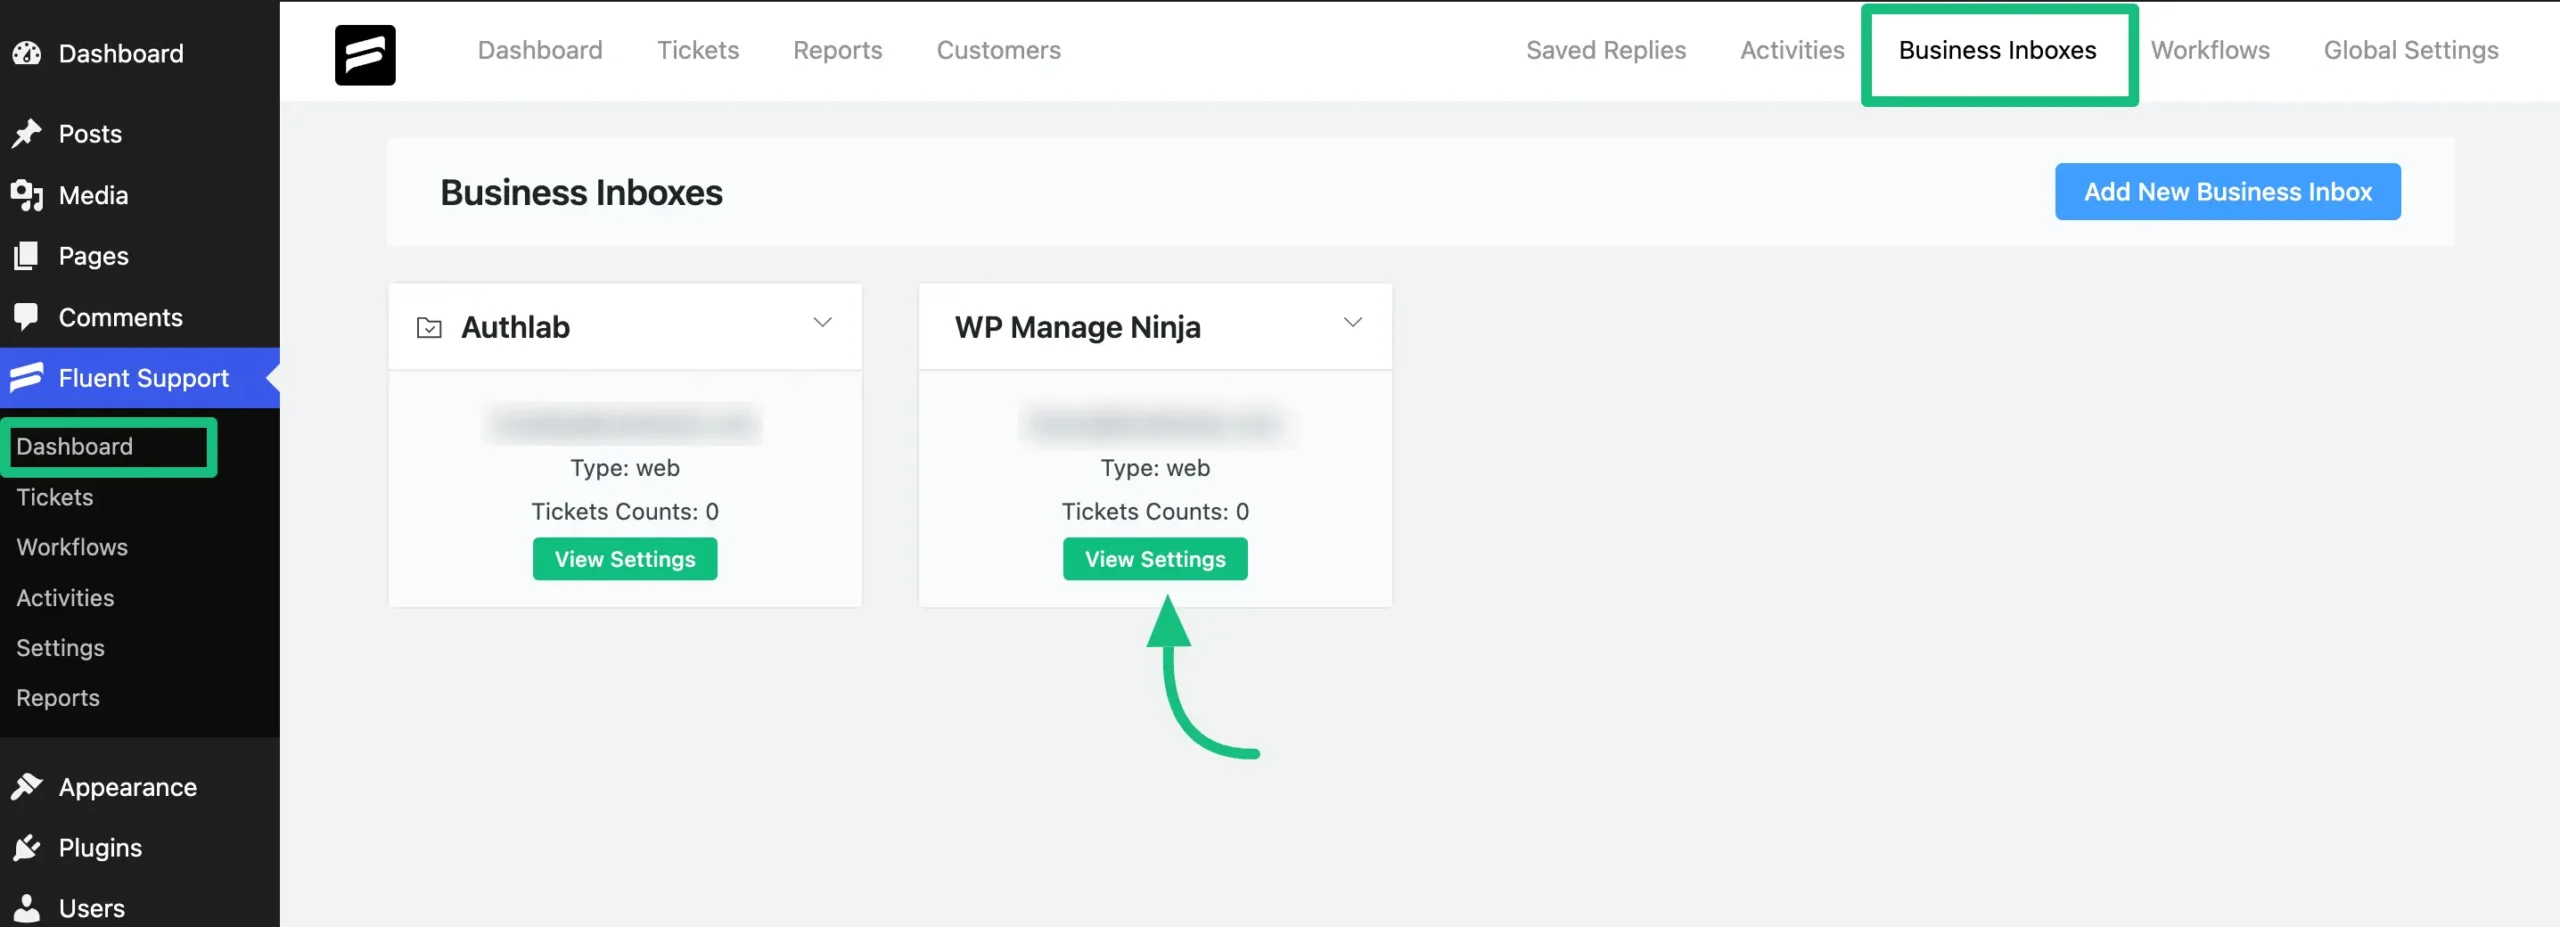
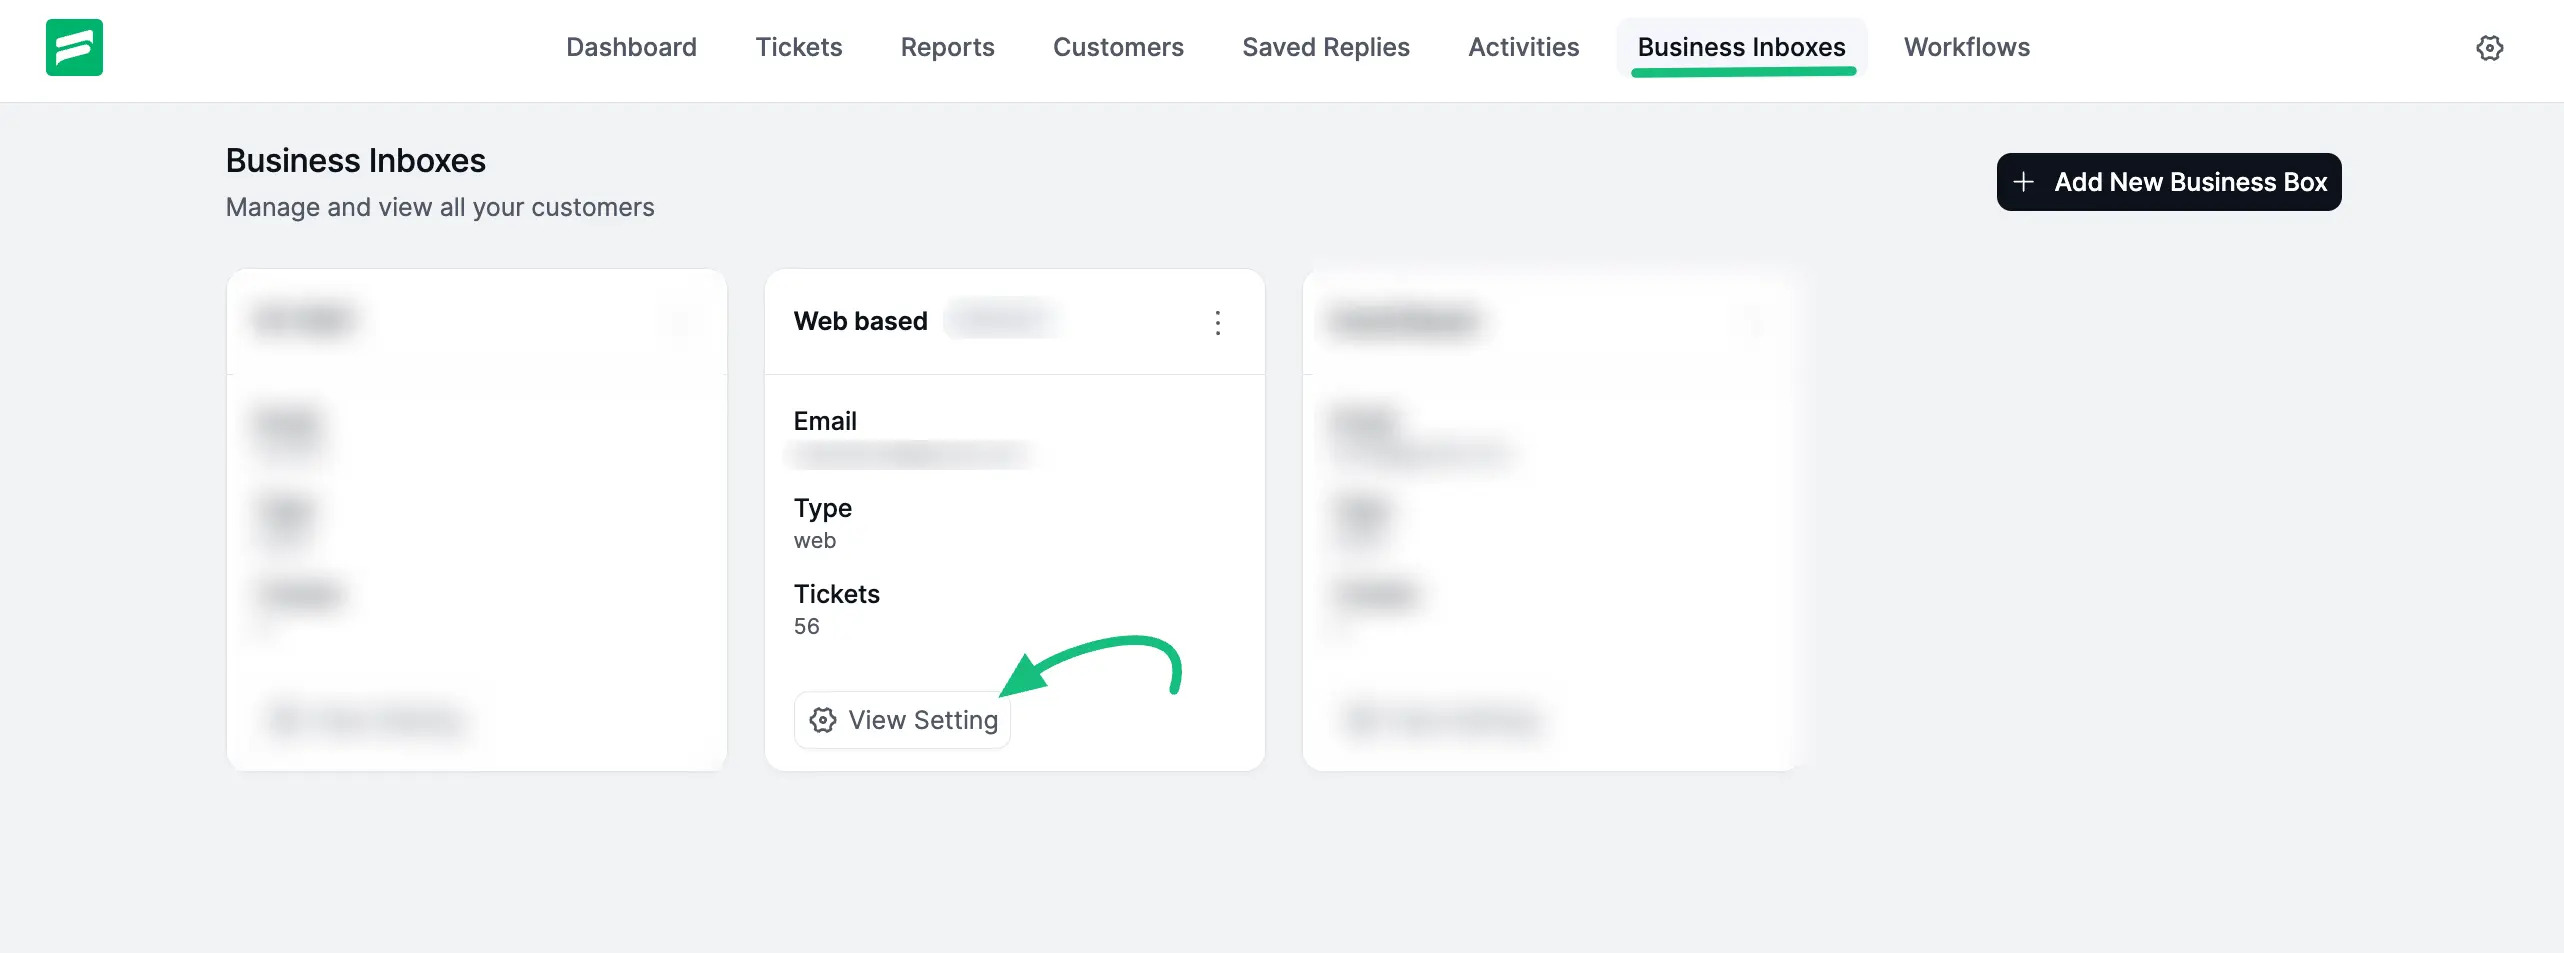
web-based-settings-in-business-inbo doc update

diff --git a/guide/setup-configuration/business-inboxes/web-based-settings-in-business-inbox.md b/guide/setup-configuration/business-inboxes/web-based-settings-in-business-inbox.md
@@ -4,60 +4,87 @@
 ---
 
 **Web-based** **Business** **Inbox** allows customers to create support tickets directly from the website only. This article will explain the functionalities of web-based business inbox settings in [**Fluent Support**](https://fluentsupport.com/). Read the article accordingly to understand what these settings do.
-## Web-Based Settings of Business Inbox #
-To learn how web-based settings work, follow the steps with the screenshots below —
+
+## Web-Based Settings of Business Inbox 
+
 Go to **Business Inboxes** from the **Fluent** **Support** **Dashboard** , select the **business inbox** you kept **Web-based** , and click on **View Setting**. 
+
 ![View Settings of specific web-based business inbox](/guide/public/images/setup-configuration/business-inboxes/web-based-settings-in-business-inbox/view-settings-1-scaled.webp)
+
 You will find two types of **Settings** options (**Inbox** **Settings** & **Email Settings)** to set your Web-Based Inbox.
-![Two types of settings option](/guide/public/images/setup-configuration/business-inboxes/web-based-settings-in-business-inbox/two-types-of-settings-1.webp)
-### Inbox Settings #
-In the **Inbox Settings,** you can do lots of customization, e.g., changing inbox name, adding admin email address & footer, selecting inbox color, etc. To know the details of **Inbox Settings** , follow the guidelines with screenshots given below —
-**Inbox Name**  
-You can change the name of your Business inbox from here.
-![Inbox Name](/guide/public/images/setup-configuration/business-inboxes/web-based-settings-in-business-inbox/inbox-name-1.webp)
-**Support From Email**  
-From here, you will find the email you used to create this business inbox. 
-![Support From Email](/guide/public/images/setup-configuration/business-inboxes/web-based-settings-in-business-inbox/support-from-email.webp)
-**Admin Email Address**  
-Here, you can add another email address for admin where admin will get email if enabled in email settings, and you can change it anytime.
-![Admin Email Address](/guide/public/images/setup-configuration/business-inboxes/web-based-settings-in-business-inbox/admin-email-address.webp)
-**Email Footer For Customers**  
-You can also set Email footer for your customers where —
-* You can add **Media** , **Text** and customize their **Visual** for the footer from here
-* By clicking on the **Click to see Available Dynamic Codes:** you can find the dynamic codes you can use on your footer.
-![Email Footer for Customers](/guide/public/images/setup-configuration/business-inboxes/web-based-settings-in-business-inbox/footer-for-customer-1.webp)
-**Inbox Color**  
-From the Inbox Color drop-down, you can select any color for your business inboxes
-![Inbox Colour](/guide/public/images/setup-configuration/business-inboxes/web-based-settings-in-business-inbox/inbox-color.webp)
-**Hide Badge in Tickets**  
-The Business Inbox Badge is an automatically generated label that appears next to a ticket’s title in the main ticket list. Its purpose is to provide a quick visual indicator of which Business Inbox (i.e., which support channel or product) the ticket belongs to. 
-Fluent Support creates this badge by using a short abbreviation from the name of the specific Business Inbox that received the ticket. For example, a ticket submitted to your “Automation Support” inbox might display an **`Aut.`**. badge.
-To hide the badge from the ticket, just need to enable the **`Hide Badge in Tickets`** button
-![Hide Badge Tickets](/guide/public/images/setup-configuration/business-inboxes/web-based-settings-in-business-inbox/hide-badge-1.webp)
+
+### Inbox Settings 
+
+In the **Inbox Settings,** you can do lots of customization, e.g., changing inbox name, adding admin email address & footer, selecting inbox color, etc. 
+
+ **Inbox Name:** You can change the name of your Business inbox from here.
+
+ **Support From Email:** From here, you will find the email you used to create this business inbox. 
+
+ **Admin Email Address:** Here, you can add another email address for admin where admin will get email if enabled in email settings, and you can change it anytime.
+
+![Admin Email Address](/guide/public/images/setup-configuration/business-inboxes/web-based-settings-in-business-inbox/inbox-settings-2.webp)
+
+**Email Footer For Customers:** You can also set Email footer for your customers where —
+ 
+ * You can add **Media** , **Text** and customize their **Visual** for the footer from here
+ * By clicking on the **Click to see Available Dynamic Codes:** you can find the dynamic codes you can use on your footer.
+
+![Email Footer for Customers](/guide/public/images/setup-configuration/business-inboxes/web-based-settings-in-business-inbox/email-footer-for-customer.webp)
+
+ **Inbox Color:** From the Inbox Color drop-down, you can select any color for your business inboxes
+
+ **Hide Badge in Tickets:** The Business Inbox Badge is an automatically generated label that appears next to a ticket’s title in the main ticket list. Its purpose is to provide a quick visual indicator of which Business Inbox (i.e., which support channel or product) the ticket belongs to. 
+ 
+ Fluent Support creates this badge by using a short abbreviation from the name of the specific Business Inbox that received the ticket. For example, a ticket submitted to your “Automation Support” inbox might display an **`Aut.`**. badge.
+ 
+ To hide the badge from the ticket, just need to enable the **`Hide Badge in Tickets`** button. 
+
+![Hide Badge Tickets](/guide/public/images/setup-configuration/business-inboxes/web-based-settings-in-business-inbox/hide-badget-4.webp)
+
 Always press **Save Settings** after finishing all the customization in your **Inbox Settings** to save it, otherwise, changes will not appear in your inbox.
-### Email Settings #
-In the **Email Settings,** you can select to whom and when the email notifications will be delivered. Additionally, you can also customize the content of the email as well. To know the details of **Email Settings** , follow the guidelines with screenshots given below —
+
+### Email Settings 
+
+In the **Email Settings,** you can select to whom and when the email notifications will be delivered. Additionally, you can also customize the content of the email as well.
+
 You will see certain options are enabled by default which can be modified at any time, and can add more options for sending and receiving email notifications as well.
+
 First, select any option you want to add, customize or modify. Then, click on the **Pencil Icon** and a pop-up box will appear where you can enable notifications and customize email settings.
+
 > For instance, I selected the **Ticket Created (To Customer)** option to send email notifications right after a customer submits a support ticket; but, you can choose any option to suit your needs.
-![Email Settings of web-based business inbox](/guide/public/images/setup-configuration/business-inboxes/web-based-settings-in-business-inbox/untitled-26-1.webp)
+
+![Email Settings of web-based business inbox](/guide/public/images/setup-configuration/business-inboxes/web-based-settings-in-business-inbox/email-settings-5.webp)
+
 To enable this option, click on **Enable This Email Notification** and press **Save Settings** to send this email notification to customers.
+
 ![Enable Email Notification](/guide/public/images/setup-configuration/business-inboxes/web-based-settings-in-business-inbox/enable-button-for-options-drift-video.gif)
+
 Click on the **Send Attachments (Not Recommended)** button to attach files to your email notifications.
 **Why is this button suggested as (Not Recommended)?**  
-Sometimes when you attach any files to your email, it may face some delivery failure.  
-To avoid this situation and ensure that any kind of email is delivered without any hassle, we recommend using the **[FluentSMTP](https://fluentsmtp.com/)** plugin. To learn the basic use of the **FluentSMTP** plugin, check this [**Documentation**](https://fluentsmtp.com/docs-category/getting-started/).
+
+Sometimes when you attach any files to your email, it may face some delivery failure. To avoid this situation and ensure that any kind of email is delivered without any hassle, we recommend using the **[FluentSMTP](https://fluentsmtp.com/)** plugin. To learn the basic use of the **FluentSMTP** plugin, check this [**Documentation**](https://fluentsmtp.com/docs-category/getting-started/).
+
 ![Send Attachments \(Not Recommended\)](/guide/public/images/setup-configuration/business-inboxes/web-based-settings-in-business-inbox/send-attachments.webp)
-You can customize the subject name and body content of your email using the **Email Subject** field and **Email Body** box.
-Also use the **shortcodes** from the **Available** **Smartcodes** list within the Email body or subject which will dynamically fetch various information like the Customer name, email, ticket ID, etc.
-![Customize your email subject & body using shortcode](/guide/public/images/setup-configuration/business-inboxes/web-based-settings-in-business-inbox/customize-your-email-content.webp)
+
+You can customize the subject name and body content of your email using the **Email Subject** field and **Email Body** box. Also, use the **shortcodes** from the **Available** **Smartcodes** list within the Email body or subject which will dynamically fetch various information like the Customer name, email, ticket ID, etc.
+
+![Customize your email subject & body using shortcode](/guide/public/images/setup-configuration/business-inboxes/web-based-settings-in-business-inbox/customize-your-email-content-1.webp)
+
 Always press**Save Settings** after finishing all the customization in your emails to save it, otherwise changes will not appear in your emails.
-### Set as Default #
-**“Set as Default”** is another feature that allows you to set up one of your web-based business inboxes as the default inbox, i.e., automatically receive all emails from your business in one specific inbox by default. To learn how to set a default business inbox, follow the GIF below —
+
+### Set as Default 
+
+ * **“Set as Default”** is another feature that allows you to set up one of your web-based business inboxes as the default inbox, i.e., automatically receive all emails from your business in one specific inbox by default.
+
 This **“Set as Default”** feature is available for Web-Based Business Inboxes only.
+
 ![Set any web-based inbox as default business inbox](/guide/public/images/setup-configuration/business-inboxes/web-based-settings-in-business-inbox/set-as-default-drift-video.gif)
-### Delete Business Inboxes #
-The “**Delete”** setting option allows you to delete any business inbox and transfer all support tickets easily to another inbox. To know the process of deleting and transferring, follow the GIF below —
+
+### Delete Business Inboxes 
+
+The “**Delete”** setting option allows you to delete any business inbox and transfer all support tickets easily to another inbox. 
+
 ![Delete any web-based business inbox if needed](/guide/public/images/setup-configuration/business-inboxes/web-based-settings-in-business-inbox/delete-inbox-drift-video-1.gif)
 
 ---
